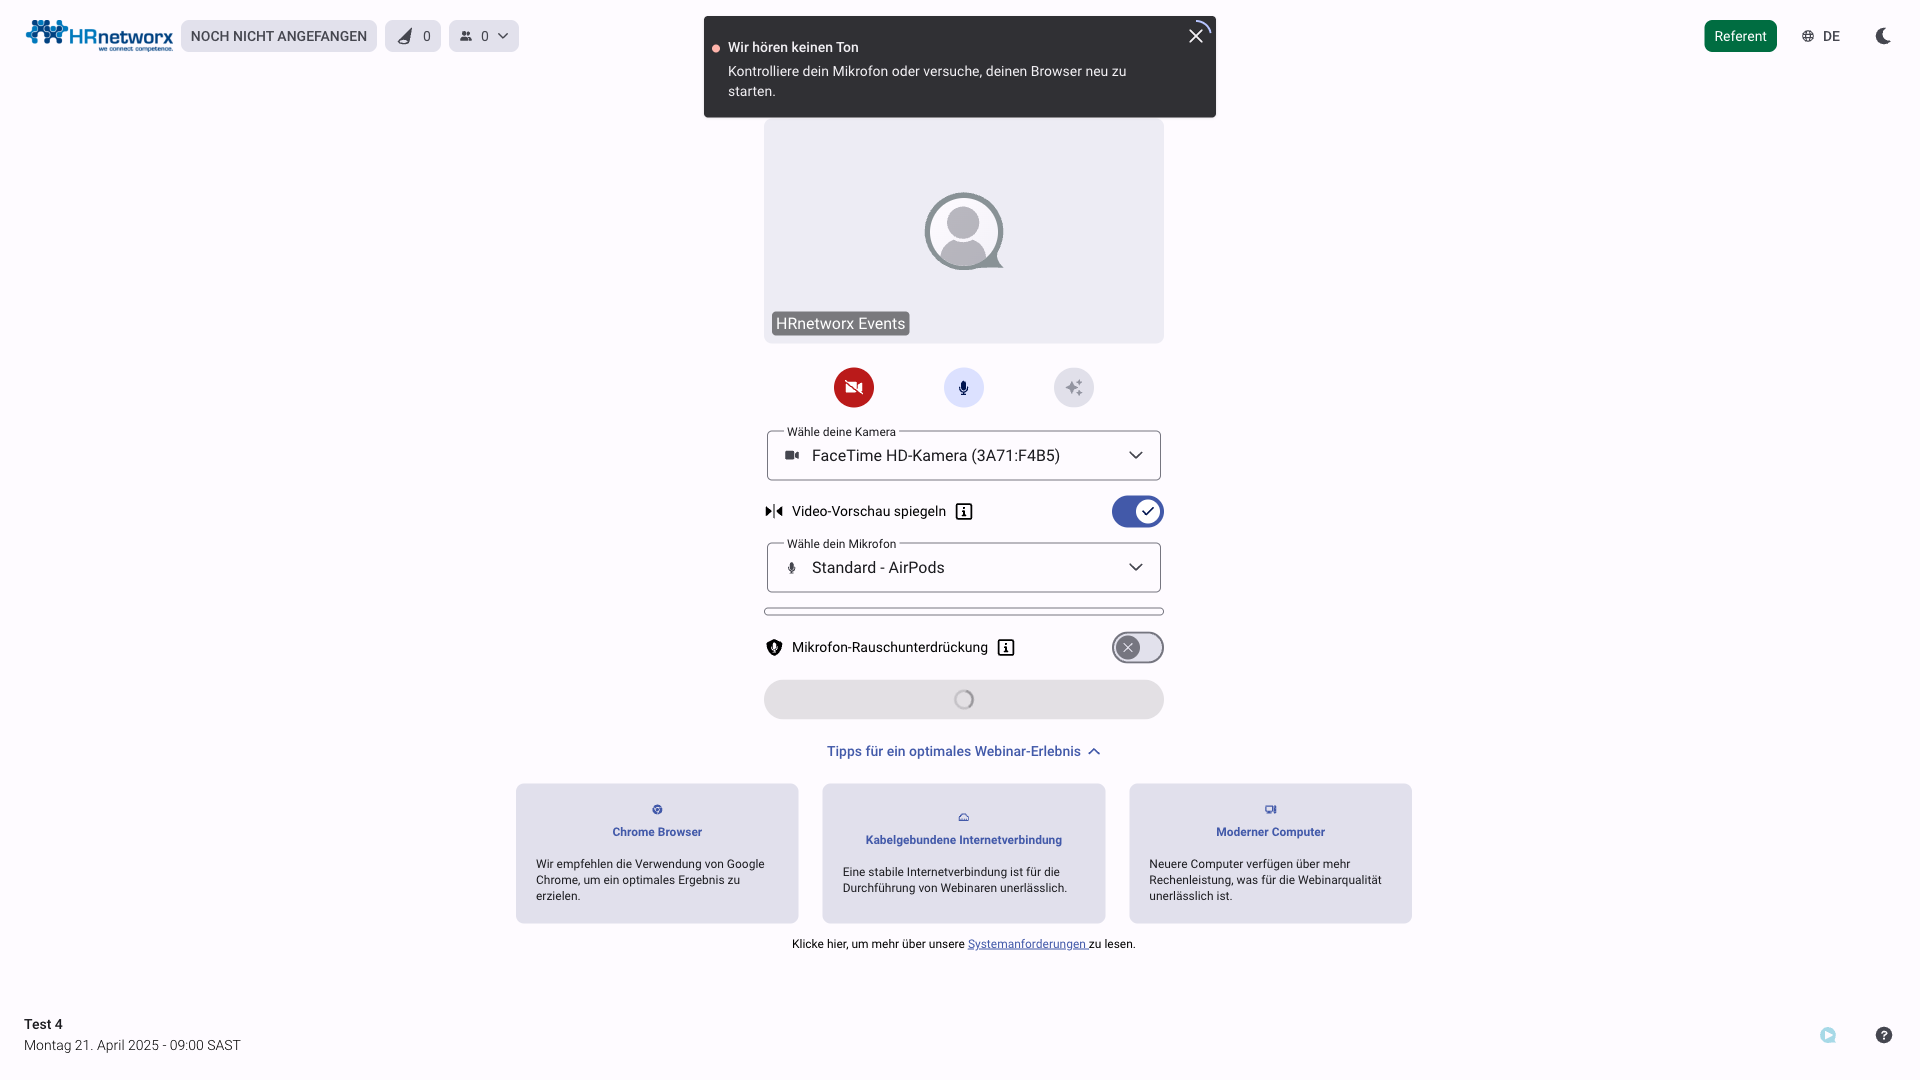
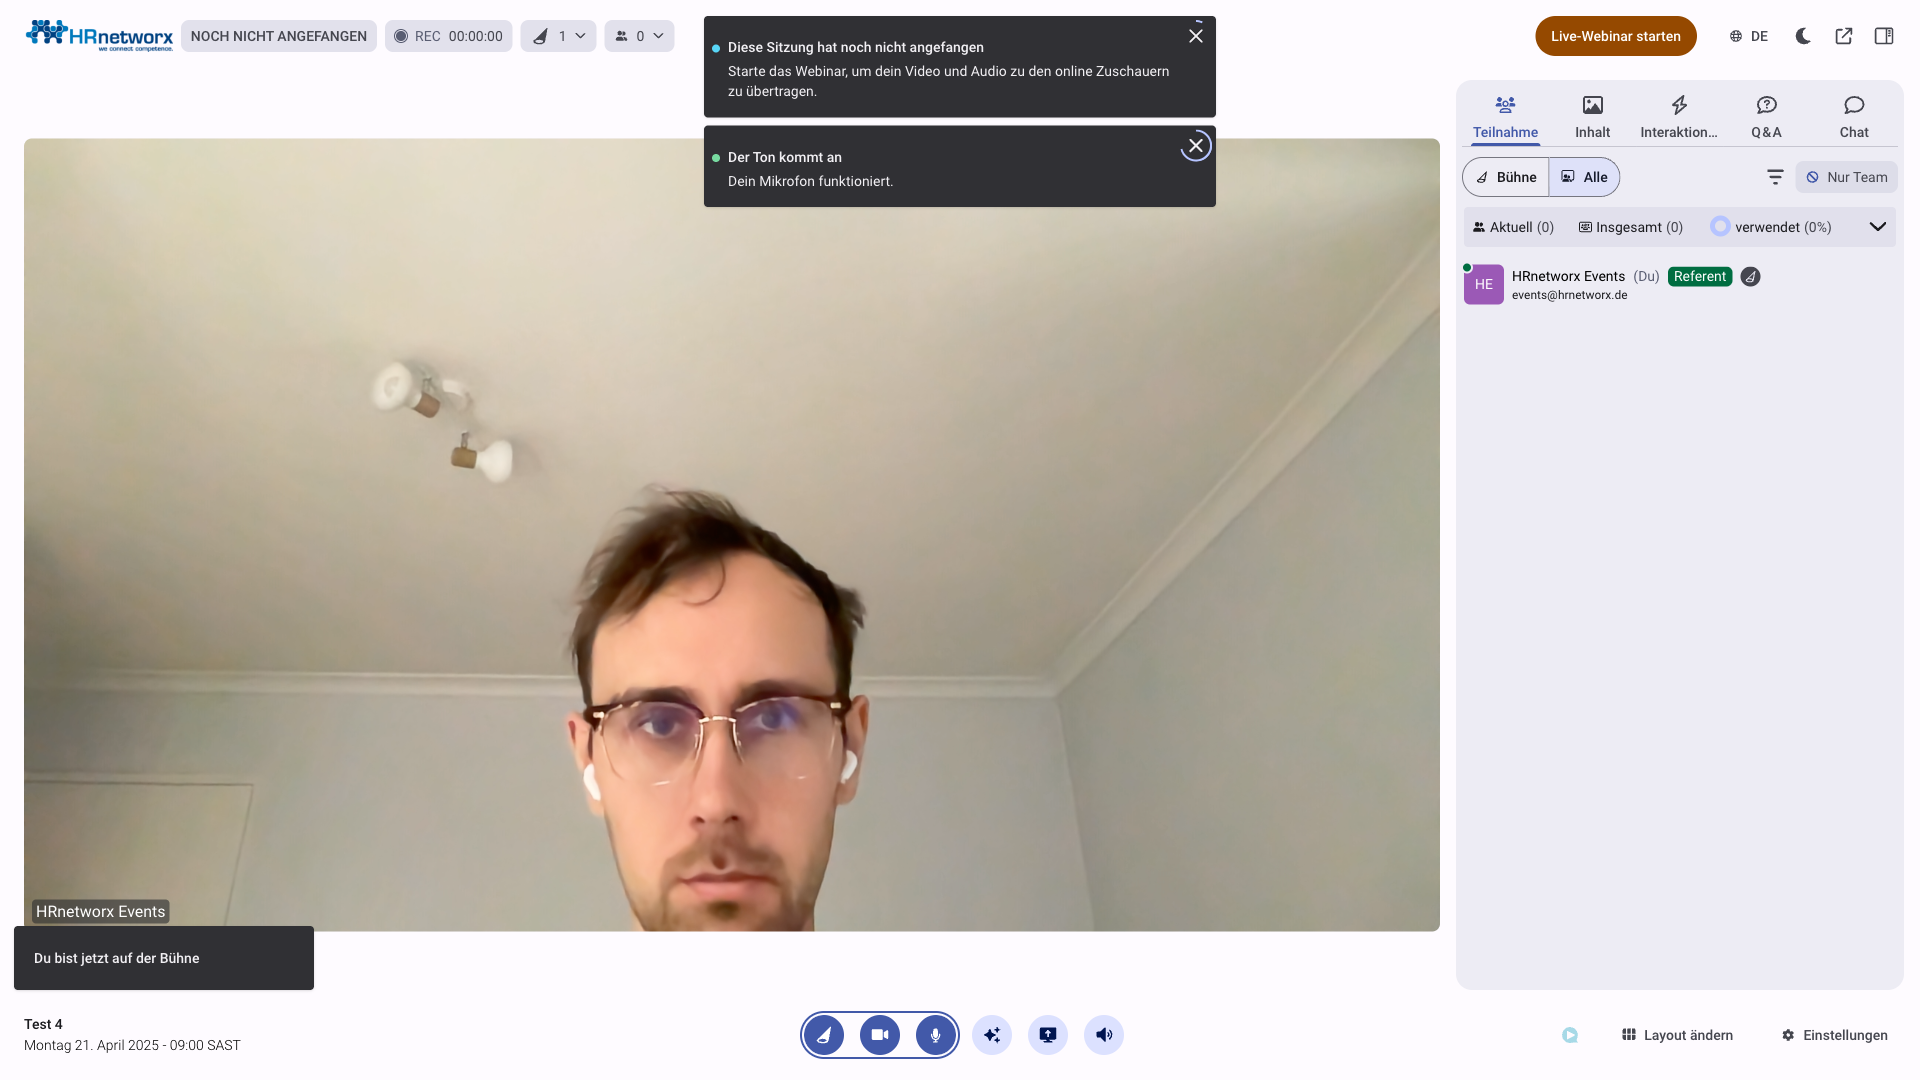
klick auf alle geht

diff --git a/main.js b/main.js
@@ -63,24 +63,21 @@ const loginPassword = "vFS8c^&a7F#b";
   // Screenshot nach dem (ggf. automatischen) Login
   await takeScreenshot(page, "01_after_login");
 
-  // 3. „Webinar beitreten“-Button anklicken (ohne waitForFunction)
+  // 3. „Webinar beitreten“-Button anklicken
   if (!manualClick) {
     try {
       console.log("[MAIN] Warte 5 Sekunden, damit Elemente Zeit haben zu laden...");
       await new Promise((resolve) => setTimeout(resolve, 5000)); // 5s Pause
 
-      // Shadow-Host #streamingPage_webinargeek suchen
+      // Shadow-Host #streamingPage_webinargeek
       const streamingHost = await page.$("#streamingPage_webinargeek");
       if (!streamingHost) {
         throw new Error("Shadow-Host #streamingPage_webinargeek nicht gefunden!");
       }
-
       // ShadowRoot abrufen
-      const streamingShadow = await streamingHost.evaluateHandle(
-        (el) => el.shadowRoot
-      );
+      const streamingShadow = await streamingHost.evaluateHandle(el => el.shadowRoot);
 
-      // malong-root im Shadow-DOM
+      // malong-root
       const malongRoot = await streamingShadow.$("#malong-root");
       if (!malongRoot) {
         throw new Error("Konnte #malong-root im Shadow DOM nicht finden!");
@@ -94,11 +91,25 @@ const loginPassword = "vFS8c^&a7F#b";
         throw new Error("Konnte 'Webinar beitreten'-Button nicht finden!");
       }
 
-      // Klick ausführen
+      // Klick „Webinar beitreten“
       await webinarJoinButton.click();
       console.log(">>> Automatisch auf 'Webinar beitreten' geklickt!");
+
+      // 4. Kurz warten und dann auf den "Alle"-Tab klicken
+      console.log("[MAIN] Warte 3s, dann klicke auf den 'Alle'-Tab ...");
+      await new Promise((resolve) => setTimeout(resolve, 3000));
+
+      // Gleicher Shadow-DOM (streamingShadow, malongRoot)
+      // => Button mit aria-label="Bedienfeld Alle öffnen" oder #sidebar-button-attendeeList
+      const allTabButton = await malongRoot.$('#sidebar-button-attendeeList');
+      if (!allTabButton) {
+        throw new Error("Konnte den 'Alle'-Tab-Button nicht finden!");
+      }
+
+      await allTabButton.click();
+      console.log(">>> Automatisch auf 'Alle' (Teilnehmerliste) geklickt!");
     } catch (err) {
-      console.error("[MAIN] Fehler beim Klick auf 'Webinar beitreten':", err);
+      console.error("[MAIN] Fehler beim Klick auf 'Webinar beitreten' / 'Alle':", err);
     }
   } else {
     // Manuelles Klicken
@@ -109,7 +120,7 @@ const loginPassword = "vFS8c^&a7F#b";
   // Optional: Screenshot
   await takeScreenshot(page, "02_join_attempt");
 
-  // 4. Warte auf das Shadow-Element #streamingPage_webinargeek (für Teilnehmer-Überwachung)
+  // 5. Warte auf das Shadow-Element #streamingPage_webinargeek (für Teilnehmer-Überwachung)
   try {
     console.log("[MAIN] Warte nochmal 5s, bevor wir mit Monitoring starten...");
     await new Promise((resolve) => setTimeout(resolve, 5000));
@@ -127,7 +138,7 @@ const loginPassword = "vFS8c^&a7F#b";
     // return;
   }
 
-  // 5. Endlos-Schleife: Teilnehmerliste auslesen
+  // 6. Endlos-Schleife: Teilnehmerliste auslesen
   while (true) {
     await new Promise((resolve) => setTimeout(resolve, 5000));
     const attendees = await getAttendeeList(page);
